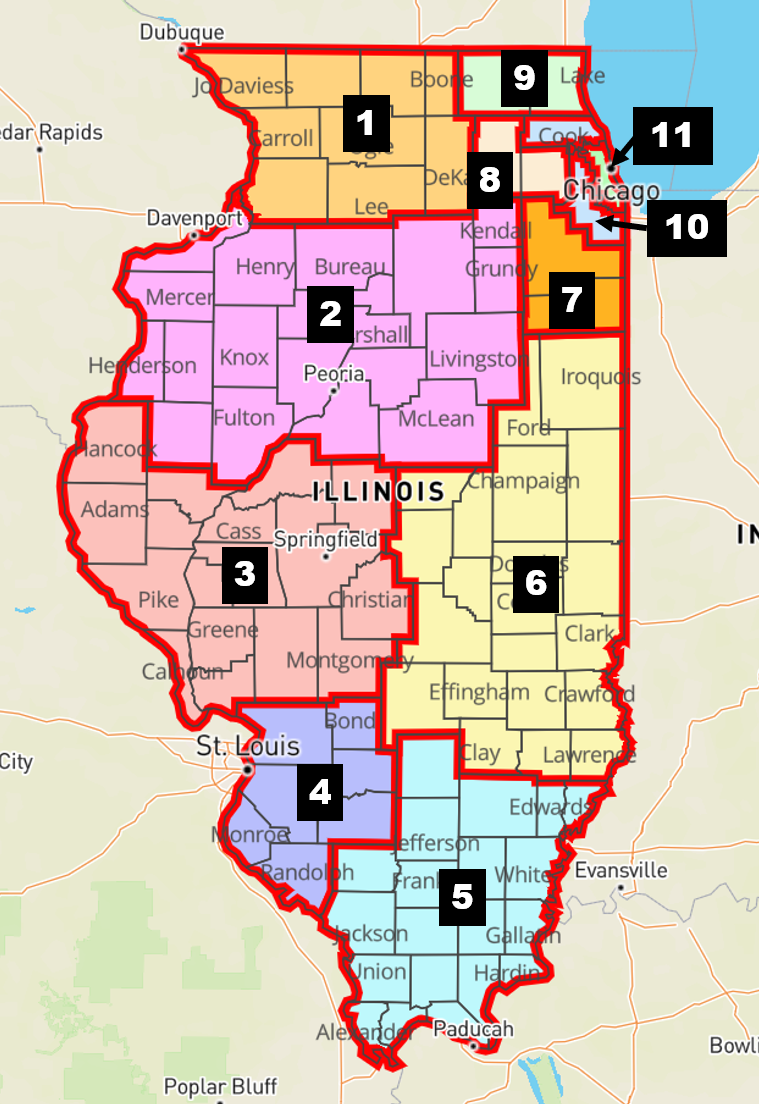
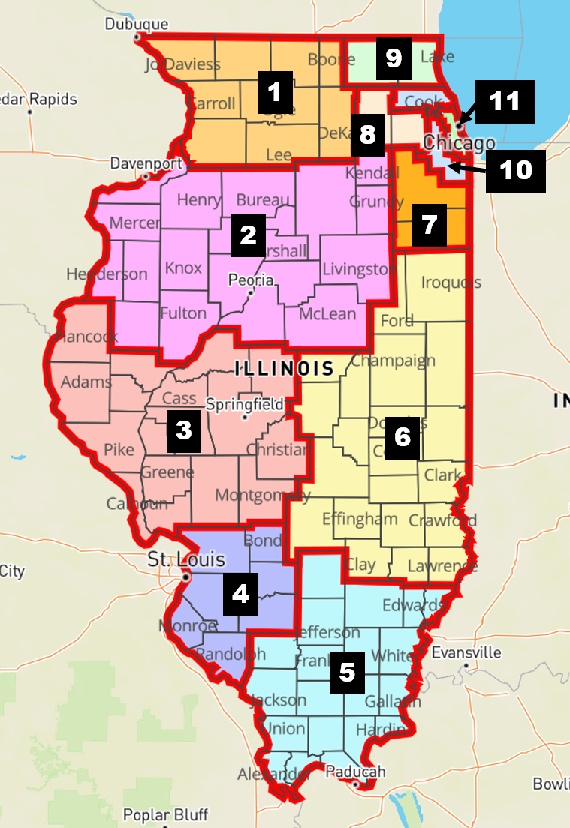
Fix layout

diff --git a/Forecasting/README.md b/Forecasting/README.md
@@ -11,7 +11,9 @@ Our model is calibrated to each of the 11 COVID regions defined by the [Restore 
 Statewide estimates are produced by aggregating the projections from all regions.
 
 Figure 1: The 11 COVID regions.
-![Figure 2](./plots/covid_regions.png)
+<p align="center">
+  <img src="./plots/covid_regions.png">
+</p>
 
 Below, we show the results of our model projections through December 31, 2020.
 Solid lines indicate the median projected value and the shaded area shows the 95% prediction interval. 
